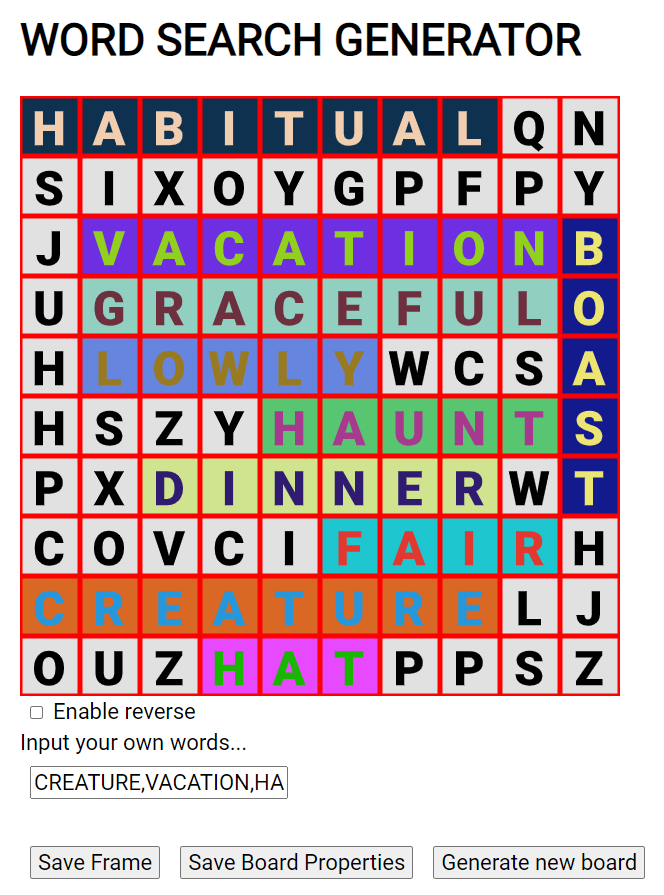
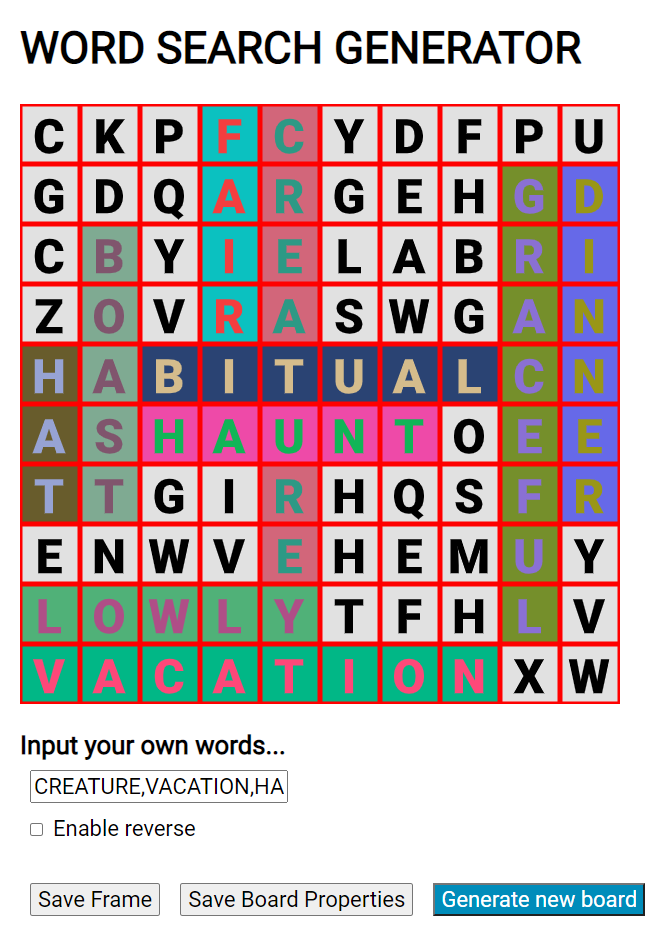
Added some changes in the interface

diff --git a/sketch.js b/sketch.js
@@ -40,11 +40,11 @@ function setup() {
     createDiv("<h1> WORD SEARCH GENERATOR </h1>");
     createCanvas(600, 600);
 
+    createDiv("<h3> Input your own words... </h3>");
+    inputWords = createInput(paraules.toString(), "text");
+
     checkbox = createCheckbox('Enable reverse', enableReverse);
     checkbox.changed(changeReverse);
-
-    createDiv("Input your own words...");
-    inputWords = createInput(paraules.toString(), "text");
 
     createDiv("<br>");
     saveCanvasButton = createButton("Save Frame");
@@ -53,8 +53,9 @@ function setup() {
     saveBoardButton = createButton("Save Board Properties");
     saveBoardButton.mousePressed(saveProperties);
 
-
     let btn = createButton("Generate new board");
+    btn.style("background-color", color("#008CBA"));
+    btn.style("color", color("white"));
     btn.mousePressed(omplirTauler);
 
     textFont(roboto);

diff --git a/style.css b/style.css
@@ -10,3 +10,7 @@ button {
 canvas {
     display: block;
 }
+
+h3 {
+    margin-bottom: 0px;
+}
